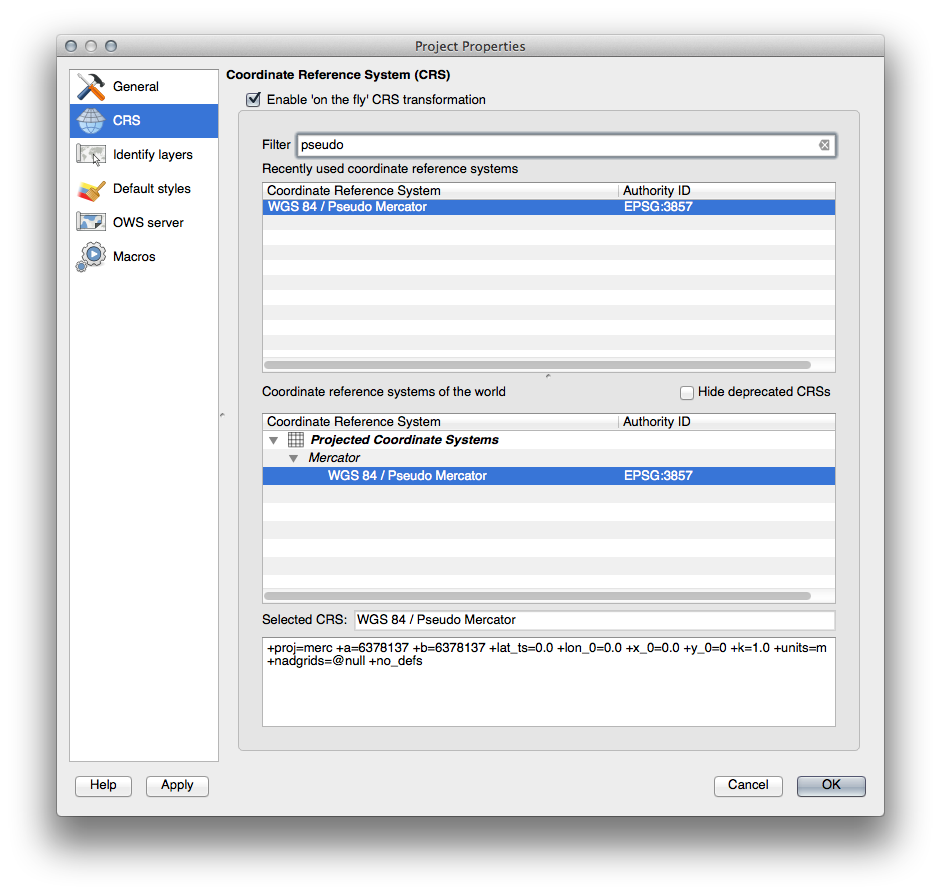
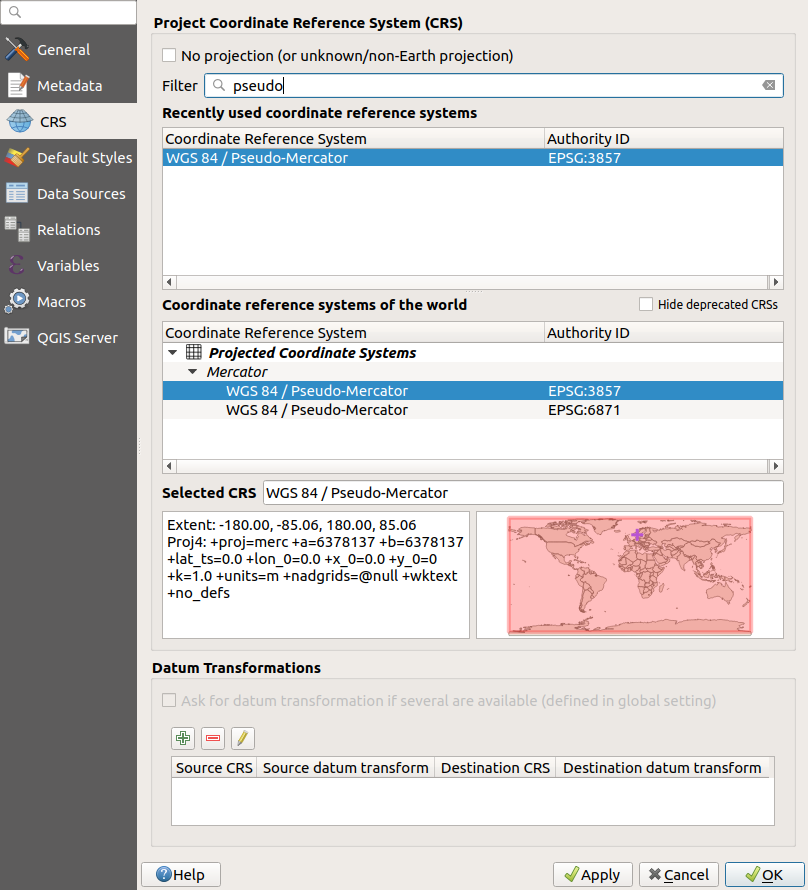
Update wms.rst to reflect 3.4 CRS behaviour (#3783)
Fixes #3327
Enable projections illustration update for 3.4

diff --git a/source/docs/training_manual/online_resources/wms.rst b/source/docs/training_manual/online_resources/wms.rst
@@ -34,7 +34,9 @@ this example, we used a new map and loaded the original :guilabel:`places` and
   layers visible.
 
 * Before starting to add the WMS layer, first deactivate "on the fly"
-  projection.  This may cause the layers to no longer overlap properly, but
+  projection (:menuselection:`Project --> Properties...`, :guilabel:`CRS`,
+  check :guilabel:`No projection (or unknown/non-Earth projection)`.
+  This may cause the layers to no longer overlap properly, but
   don't worry: we'll fix that later.
 * To add WMS layers, click on the :guilabel:`Add WMS Layer` button:
 
@@ -101,7 +103,10 @@ because "on the fly" projection is disabled. Let's enable it again,
 but using the same projection as the :guilabel:`OSM-WMS` layer, which is
 :guilabel:`WGS 84 / Pseudo Mercator`.
 
-* Enable "on the fly" projection.
+* Enable "on the fly" projection
+  (:menuselection:`Project --> Properties...`, :guilabel:`CRS`,
+  uncheck :guilabel:`No projection (or unknown/non-Earth projection)`.)
+
 * In the :guilabel:`CRS` tab (:guilabel:`Project Properties` dialog), enter the
   value :kbd:`pseudo` in the :guilabel:`Filter` field:
 
